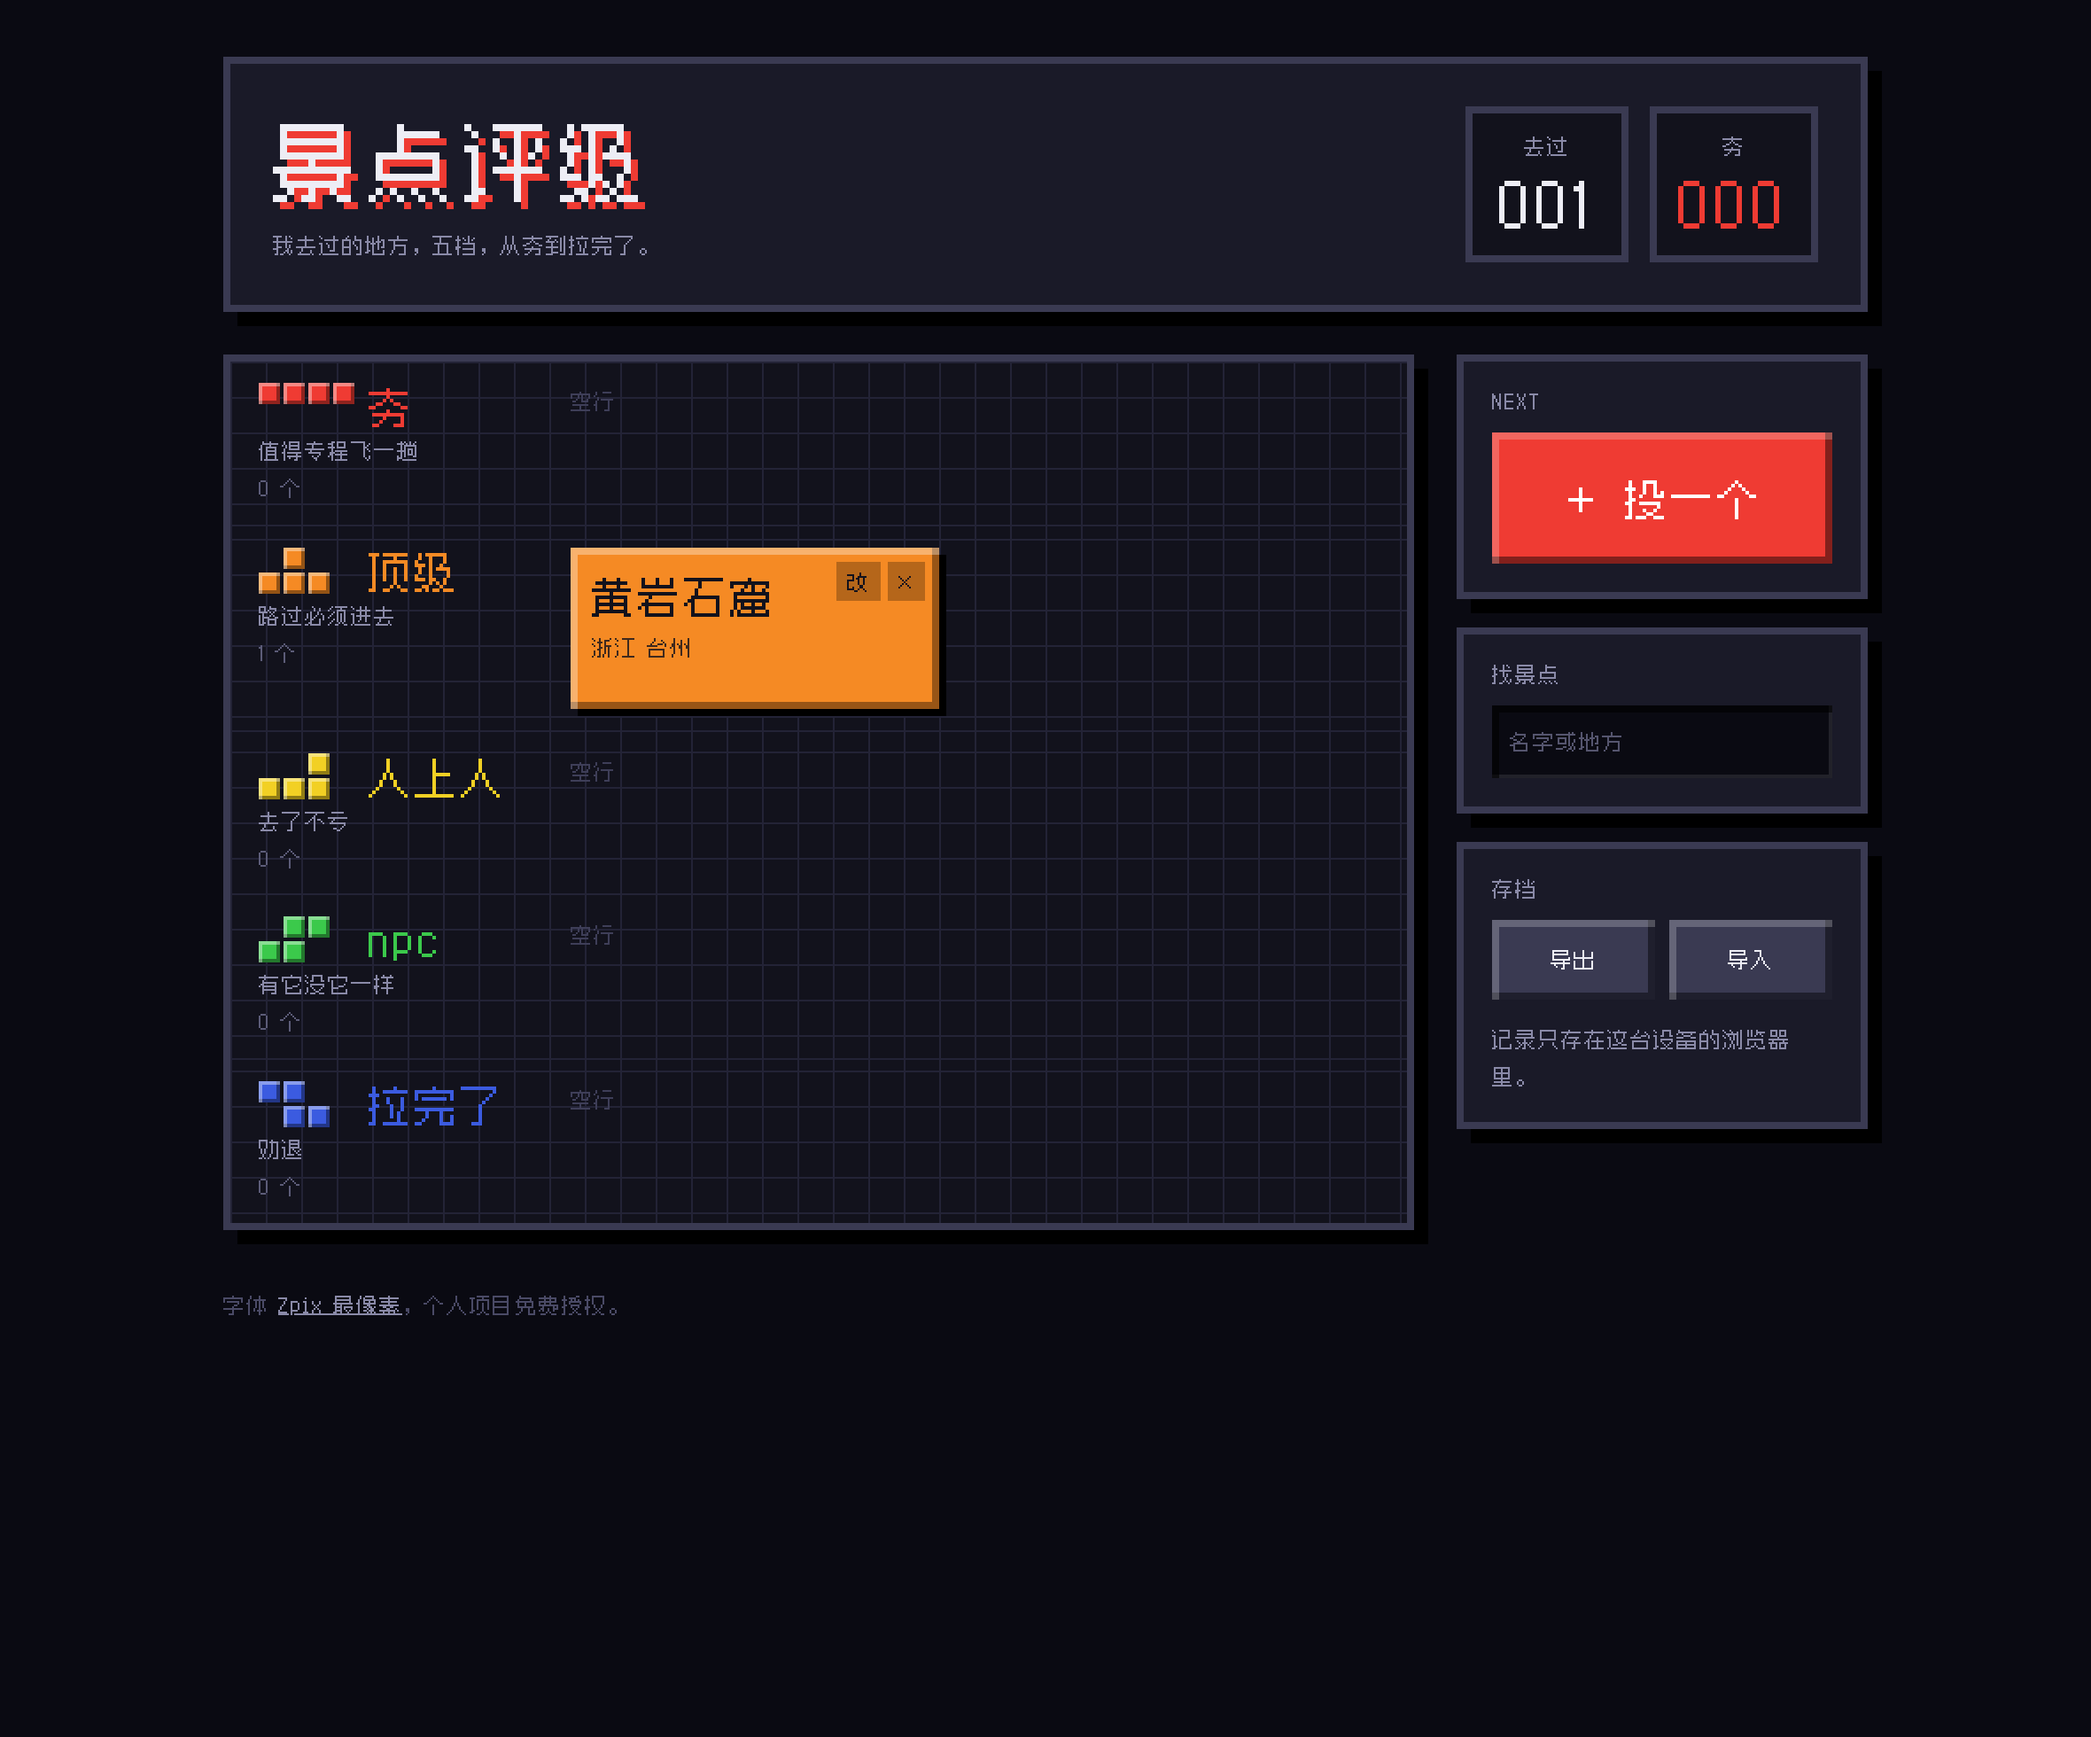
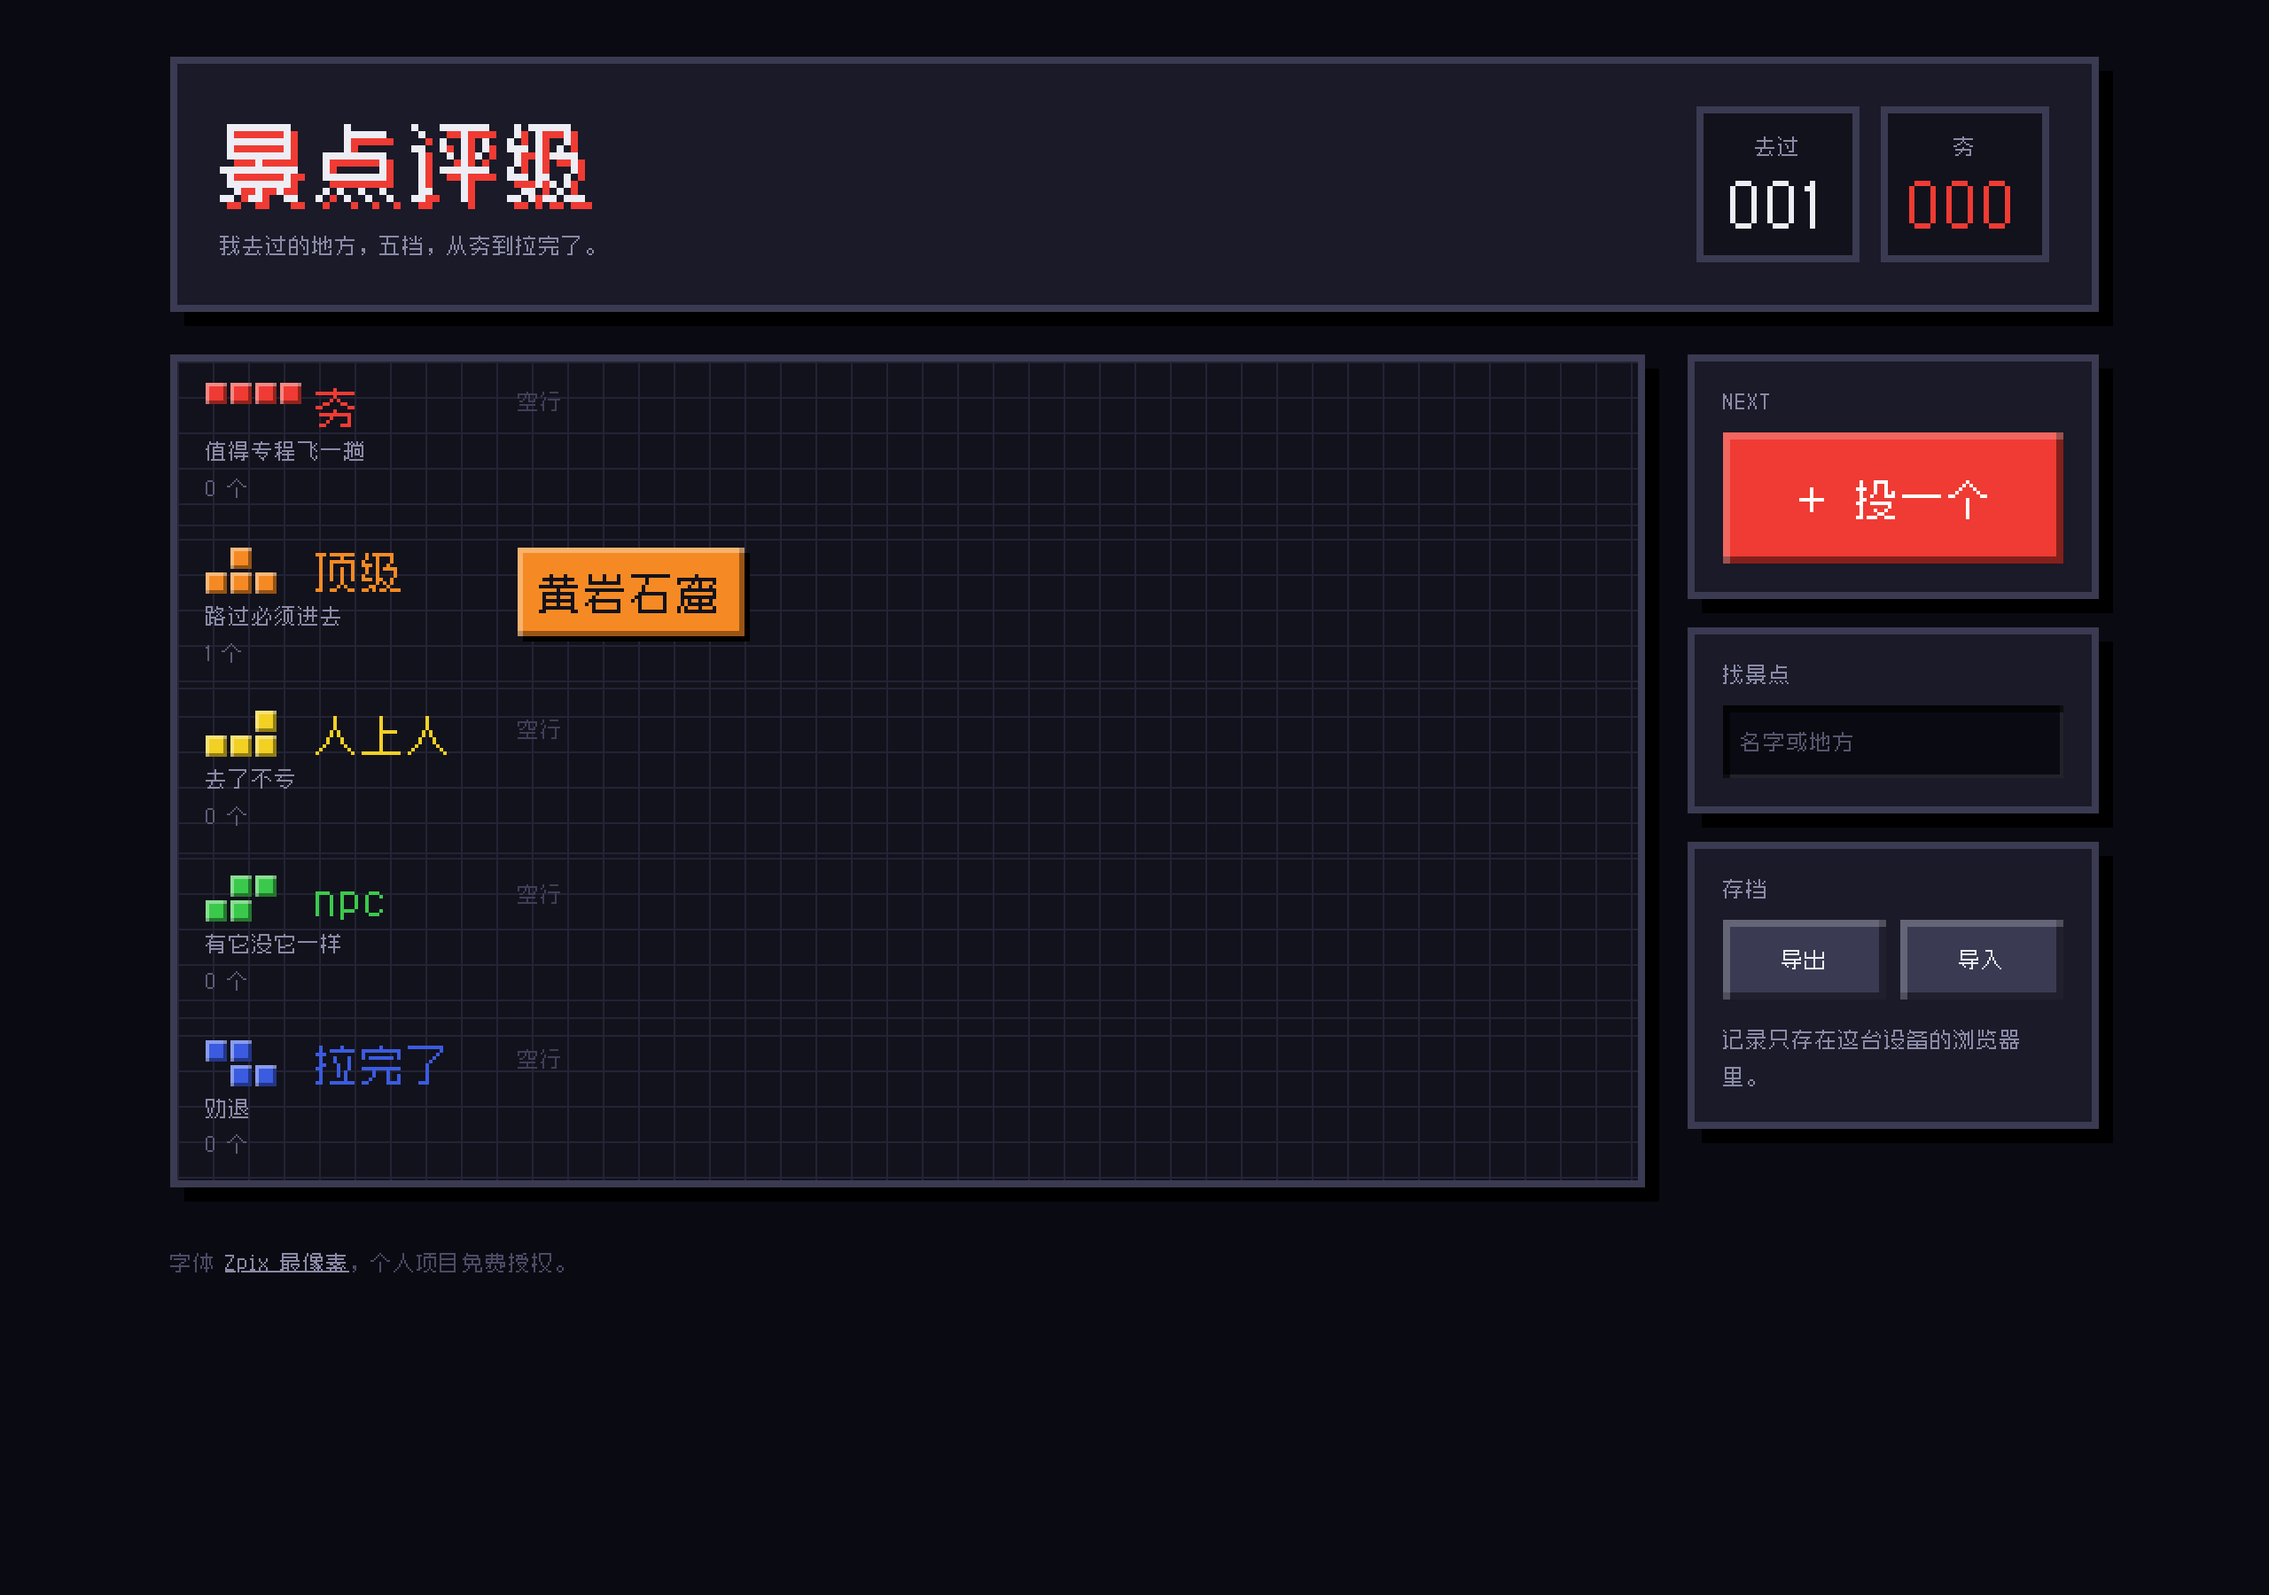
方块瘦身：只留名字，详情收进弹窗
原来方块里塞了名字、地点、时间、一句话和两个按钮，是卡片的信息量。
实测 60 个景点要 4116px / 4.6 屏，一行只排得下 2 个。

- 方块只留名字，宽度由文字决定，flex 换行紧贴排列（60 个 → 1252px / 1.4 屏，一行 5 个）
- 方块本身是 button，点开即详情，弹窗内改 / 删；悬停 title 可快速查看
- 写了一句话的方块右上角标一个点
- 超长名字截断，完整内容在 title 和弹窗里
- 机台宽度放回 1120px，一行排得下更多
- 补密度回归断言：60 个景点必须控制在两屏内、一行至少 4 个、方块不溢出井

Changed region(s): [[0.0619, 0.0311, 0.928, 0.8089]]

diff --git a/index.html b/index.html
@@ -63,7 +63,7 @@
 
   img{image-rendering:pixelated}
 
-  .cabinet{max-width:960px;margin:0 auto;padding:32px 16px 64px}
+  .cabinet{max-width:1120px;margin:0 auto;padding:32px 16px 64px}
 
   /* ---------- 顶部招牌 ---------- */
   .marquee{
@@ -141,37 +141,48 @@
   .tag .n{font-size:12px;color:#5C5C78;font-variant-numeric:tabular-nums;line-height:1.4}
 
   /* ---------- 方块（景点） ---------- */
-  .blocks{display:grid;grid-template-columns:repeat(auto-fill,208px);gap:12px;
-    align-content:start;justify-content:start}
+  .blocks{display:flex;flex-wrap:wrap;gap:4px;align-content:start}
 
   .block{
+    display:block;
     background:var(--c);
     color:var(--on);
-    padding:12px;
+    font-size:24px;
+    line-height:1.25;
+    padding:10px 12px;
     border:0;
+    cursor:pointer;
+    text-align:left;
+    white-space:nowrap;
+    max-width:260px;
+    overflow:hidden;
+    text-overflow:ellipsis;
     box-shadow:
-      inset 4px 4px 0 rgba(255,255,255,.34),
-      inset -4px -4px 0 rgba(0,0,0,.38),
-      4px 4px 0 #000;
+      inset 3px 3px 0 rgba(255,255,255,.34),
+      inset -3px -3px 0 rgba(0,0,0,.38),
+      3px 3px 0 #000;
     position:relative;
-    min-height:76px;
   }
-  .block h3{margin:0;font-size:24px;line-height:1.25;word-break:break-word;padding-right:56px}
-  .block .where{font-size:12px;opacity:.8;margin-top:4px}
-  .block .said{font-size:12px;opacity:.92;margin-top:8px;line-height:1.6}
+  .block:hover{filter:brightness(1.14)}
+  .block:active{
+    transform:translate(2px,2px);
+    box-shadow:
+      inset -3px -3px 0 rgba(255,255,255,.2),
+      inset 3px 3px 0 rgba(0,0,0,.4),
+      1px 1px 0 #000;
+  }
+  /* 写了一句话的，角上点一个点 */
+  .block.noted{padding-right:24px}
+  .block.noted::after{
+    content:"";position:absolute;top:9px;right:9px;
+    width:6px;height:6px;background:var(--on);opacity:.6;
+  }
 
   .block.drop{animation:drop .4s steps(8)}   /* 分步下落，不是平滑缓动 */
   @keyframes drop{from{transform:translateY(-200px)}to{transform:translateY(0)}}
 
-  .tools{position:absolute;top:8px;right:8px;display:flex;gap:4px}
-  .tools button{
-    font:inherit;font-size:12px;line-height:1;cursor:pointer;
-    background:rgba(0,0,0,.26);color:inherit;border:0;padding:5px 6px;
-  }
-  .tools button:hover{background:rgba(0,0,0,.52)}
-
   .gap{
-    grid-column:1/-1;
+    width:100%;
     color:#3E3E58;
     font-size:12px;
     margin:0;
@@ -241,6 +252,9 @@
   }
   .picker input:focus-visible + label{outline:var(--u) solid var(--o);outline-offset:2px}
   .acts{display:grid;grid-template-columns:1fr 1fr;gap:8px;margin-top:4px}
+  .acts.editing{grid-template-columns:auto 1fr 1fr}
+  button.key.danger{background:transparent;color:var(--z);box-shadow:inset 0 0 0 3px var(--z)}
+  button.key.danger:hover{background:var(--z);color:#fff}
 
   footer{margin-top:32px;color:#4A4A66;font-size:12px;line-height:1.8}
   footer a{color:var(--ink-dim)}
@@ -267,7 +281,6 @@
     .tag{flex-direction:row;align-items:center;gap:12px;flex-wrap:wrap}
     .tag .blurb{display:none}
     .tag .n{margin-left:auto}
-    .blocks{grid-template-columns:1fr}
     .picker{grid-template-columns:repeat(3,1fr)}
   }
 </style>
@@ -341,9 +354,10 @@
       <label for="f-said">一句话</label>
       <textarea id="f-said" maxlength="140" placeholder="不填也行"></textarea>
     </div>
-    <div class="acts">
+    <div class="acts" id="acts">
+      <button type="button" class="key danger" id="kill" hidden>删掉</button>
       <button type="button" class="key" id="drop-it">取消</button>
-      <button type="submit" class="key go" style="font-size:12px;padding:12px">放进去</button>
+      <button type="submit" class="key go" id="save" style="font-size:12px;padding:12px">放进去</button>
     </div>
   </form>
 </dialog>
@@ -452,17 +466,16 @@
 
       var blocks = mine.length
         ? mine.map(function(s){
-            return '<article class="block' + (s.id === landedId ? " drop" : "") + '">' +
-              '<div class="tools">' +
-                '<button data-edit="' + s.id + '" aria-label="改 ' + esc(s.name) + '">改</button>' +
-                '<button data-kill="' + s.id + '" aria-label="删掉 ' + esc(s.name) + '">×</button>' +
-              '</div>' +
-              '<h3>' + esc(s.name) + '</h3>' +
-              (s.where || s.when
-                ? '<p class="where">' + esc([s.where, s.when].filter(Boolean).join("　")) + '</p>'
-                : '') +
-              (s.said ? '<p class="said">' + esc(s.said) + '</p>' : '') +
-            '</article>';
+            /* 详情收进 title 和弹窗，方块本身只留名字 */
+            var detail = [s.name, [s.where, s.when].filter(Boolean).join("　"), s.said]
+                           .filter(Boolean).join("\n");
+            return '<button type="button" class="block' +
+                (s.id === landedId ? " drop" : "") + (s.said ? " noted" : "") + '"' +
+              ' data-open="' + s.id + '"' +
+              ' title="' + esc(detail) + '"' +
+              ' aria-label="' + esc(s.name + "，" + t.name + "档，打开详情") + '">' +
+              esc(s.name) +
+            '</button>';
           }).join("")
         : '<p class="gap">' + (q ? "这行没有匹配的" : "空行") + '</p>';
 
@@ -500,6 +513,9 @@
   var fWhere = document.getElementById("f-where");
   var fWhen  = document.getElementById("f-when");
   var fSaid  = document.getElementById("f-said");
+  var acts   = document.getElementById("acts");
+  var killBtn= document.getElementById("kill");
+  var saveBtn= document.getElementById("save");
 
   document.getElementById("picker").innerHTML = TIERS.map(function(t,i){
     return '<span style="--c:' + t.c + ';--on:' + t.on + '">' +
@@ -510,7 +526,10 @@
 
   function open(spot){
     editingId = spot ? spot.id : null;
-    document.getElementById("dlg-bar").textContent = spot ? "改一下" : "新方块";
+    document.getElementById("dlg-bar").textContent = spot ? spot.name : "新方块";
+    saveBtn.textContent = spot ? "存下来" : "放进去";
+    killBtn.hidden = !spot;
+    acts.classList.toggle("editing", !!spot);
     fName.value  = spot ? spot.name  : "";
     fWhere.value = spot ? spot.where : "";
     fWhen.value  = spot ? spot.when  : "";
@@ -554,22 +573,21 @@
   document.getElementById("add").addEventListener("click", function(){ open(null); });
 
   well.addEventListener("click", function(e){
-    var ed = e.target.closest("[data-edit]");
-    if(ed){
-      var hit = spots.filter(function(s){ return s.id === ed.getAttribute("data-edit"); })[0];
-      if(hit) open(hit);
-      return;
-    }
-    var kill = e.target.closest("[data-kill]");
-    if(kill){
-      var id = kill.getAttribute("data-kill");
-      var gone = spots.filter(function(s){ return s.id === id; })[0];
-      if(gone && confirm("把「" + gone.name + "」清掉？")){
-        spots = spots.filter(function(s){ return s.id !== id; });
-        save();
-        render();
-      }
-    }
+    var tile = e.target.closest("[data-open]");
+    if(!tile) return;
+    var hit = spots.filter(function(s){ return s.id === tile.getAttribute("data-open"); })[0];
+    if(hit) open(hit);
+  });
+
+  killBtn.addEventListener("click", function(){
+    var gone = spots.filter(function(s){ return s.id === editingId; })[0];
+    if(!gone) return;
+    if(!confirm("把「" + gone.name + "」清掉？")) return;
+    spots = spots.filter(function(s){ return s.id !== editingId; });
+    editingId = null;
+    save();
+    render();
+    dlg.close();
   });
 
   find.addEventListener("input", render);

diff --git a/README.md b/README.md
@@ -4,9 +4,9 @@
 
 👉 https://froxieye.github.io/scenic-tiers/
 
-![预览](shot-demo.png)
+![预览](shot-dense.png)
 
-> 上图为示例数据。仓库里只带一条真实记录（黄岩石窟 / 顶级），其余靠你自己往里投。
+> 上图是 60 条示例数据，为了看清装满的样子。仓库里只带一条真实记录（黄岩石窟 / 顶级）。
 
 ## 设计
 
@@ -18,14 +18,22 @@
 - 全站零圆角、零模糊阴影，只有硬偏移和内嵌斜角。
 - 只有一个动效，且由操作触发：新方块分步落下，该行闪一次。`prefers-reduced-motion` 下自动关闭。
 
+**方块为什么只有名字。** 一开始方块里塞了名字、地点、时间、一句话和两个按钮——那是卡片的信息量，不是方块的。
+实测 60 个景点要 4116px、4.6 屏，一行只排得下 2 个，再多就没法扫了。
+现在方块只留名字、宽度由文字决定，同样 60 个景点是 1252px、1.4 屏，一行 5 个。
+详情收进弹窗，点方块就开；写了一句话的方块右上角点一个点。测试里有一条密度回归盯着这个数。
+
 ## 用法
 
 | 做什么 | 在哪 |
 | --- | --- |
 | 加一个景点 | 右侧 NEXT 里的「投一个」（手机在屏幕底部） |
-| 改 / 删 | 方块右上角的「改」「×」 |
+| 看详情 / 改 / 删 | 点方块本身，在弹窗里操作 |
+| 快速瞄一眼详情 | 鼠标悬停在方块上 |
 | 按名字或地方找 | 右侧「找景点」 |
 | 备份 / 恢复 | 右侧「存档」的导出、导入 |
+
+方块右上角有个小点，表示这条写了一句话。
 
 ## 数据存在哪
 
